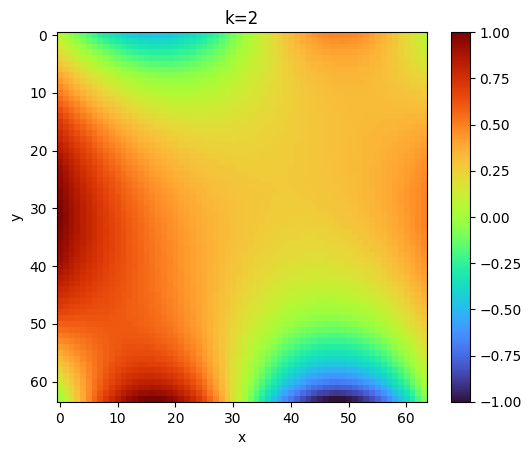
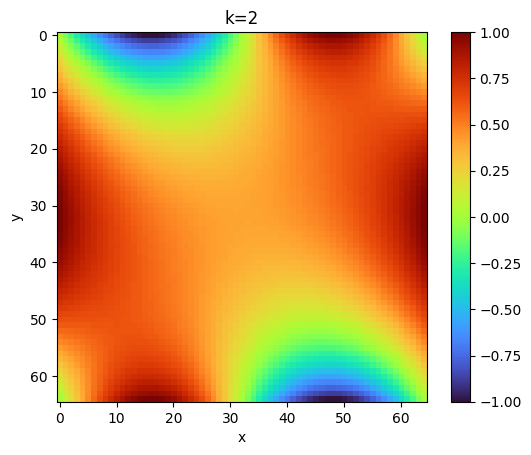
fixed lab5 completely

diff --git a/lab5/zad1.py b/lab5/zad1.py
@@ -12,31 +12,24 @@ TOL = 1e-8
 kArray = [16,8,4,2,1]
 
 def relaxate(V,k):
-	if k == 1:
-		for i in range(k,nx-k,k):
-			for j in range(k,ny-k,k):
-				V[i][j] = 0.25*(V[i-k][j]+V[i+k][j]+V[i][j-k]+V[i][j+k])
-	else:
-		for i in range(k,nx,k):
-			for j in range(k,ny,k):
-				try:
-					V[i][j] = 0.25*(V[i-k][j]+V[i+k][j]+V[i][j-k]+V[i][j+k])
-				except IndexError:
-					V[i][j] = 0.25*(V[i-k][j]+V[i+k-1][j]+V[i][j-k]+V[i][j+k-1])
+    for i in range(k,nx,k):
+        for j in range(k,ny,k):
+            V[i][j] = 0.25*(V[i+k][j] + V[i-k][j] + V[i][j+k] + V[i][j-k])
 
 def S(V,k):
     sum = 0
-    for i in range(0,nx-k,k):
-        for j in range(0,ny-k,k):
-            sum += (((k*delta)**2)/2)*( 
-            (((V[i+k][j]-V[i][j])/(2*k*delta)) + ((V[i+k][j+k]-V[i][j+k])/(2*k*delta)) )**2 + 
-            (((V[i][j+k]-V[i][j])/(2*k*delta)) + ((V[i+k][j+k]-V[i+k][j])/(2*k*delta)) )**2 )
+    for i in range(0,nx,k):
+        for j in range(0,ny,k):
+            sum += 0.5 * pow(k*delta,2)*(
+            pow((V[i+k,j] - V[i,j] + V[i+k,j+k] - V[i,j+k])/(2*k*delta),2)+
+            pow((V[i,j+k] - V[i,j] + V[i+k,j+k] - V[i+k,j])/(2*k*delta),2) 
+            )
     return sum
 
 def dens_mesh(V,k):
     k2 = k//2
-    for i in range(0,nx-k,k):
-        for j in range(k,ny-k,k):
+    for i in range(0,nx,k):
+        for j in range(0,ny,k):
             V[i+k2][j+k2] = 0.25*(V[i][j]+V[i+k][j]+V[i][j+k]+V[i+k][j+k])
             V[i+k][j+k2] = 0.5*(V[i+k][j]+V[i+k][j+k])
             V[i+k2][j+k] = 0.5*(V[i][j+k]+V[i+k][j+k])
@@ -44,35 +37,34 @@ def dens_mesh(V,k):
             V[i][j+k2] = 0.5*(V[i][j]+V[i][j+k])
 
 def main():
-    V = np.zeros((nx, ny))
-    S_values = []
+    V = np.zeros((nx+1, ny+1))
     sArray = {}
     iterArray = {}
-    # warunki brzegowe
-    for i in range(0, nx):
-        V[0][i] = math.sin(math.pi*(i*delta/ymax)) #Vb1
-        V[ny-1][i] = math.sin(math.pi*(i*delta/ymax)) #Vb3
-    for j in range(0, ny):
-        V[j][ny-1] = -math.sin(2*math.pi*(j*delta/xmax)) #Vb2
-        V[j][0] = math.sin(2*math.pi*(j*delta/xmax)) #Vb4
     # zad2 mapy potencjału dla wszystkich k
+    iter = 0
     for k in kArray:
+        # warunki brzegowe
+        for i in range(0, nx):
+            V[i][ny] = -math.sin(2*math.pi*(i*delta/xmax)) #Vb2
+            V[i][0] = math.sin(2*math.pi*(i*delta/xmax)) #Vb4
+        for j in range(0, ny):
+            V[0][j] = math.sin(math.pi*(j*delta/ymax)) #Vb1
+            V[nx][j] = math.sin(math.pi*(j*delta/ymax)) #Vb3
         print("k = ", k)
         sArr = []
-        iterArr = []
-        iter = 0
+        iterarr = []
+        s_prev = 1
         while True:
-            iterArr.append(iter)
             iter += 1
-            V_old = V.copy()
+            iterarr.append(iter)
             relaxate(V, k)
             S_value = S(V, k)
-            S_values.append(S_value)
             sArr.append(S_value)
-            if np.abs(S_value - S(V_old, k)) < TOL:
+            if np.abs((S_value - s_prev)/s_prev) < TOL:
                 break
+            s_prev = S_value
         sArray[k] = sArr
-        iterArray[k] = iterArr
+        iterArray[k] = iterarr
         plt.xlabel('x')
         plt.ylabel('y')
         plt.title('k='+str(k))
@@ -84,7 +76,7 @@ def main():
             dens_mesh(V, k)
     # zad2 zmiany S(it) dla wszystkich k
     for k in kArray:
-        plt.plot(iterArray[k],sArray[k], label='k='+str(k))
+        plt.plot(iterArray[k], sArray[k], label='k='+str(k))
     plt.title("S(it)")
     plt.xlabel('it')
     plt.ylabel('S')
